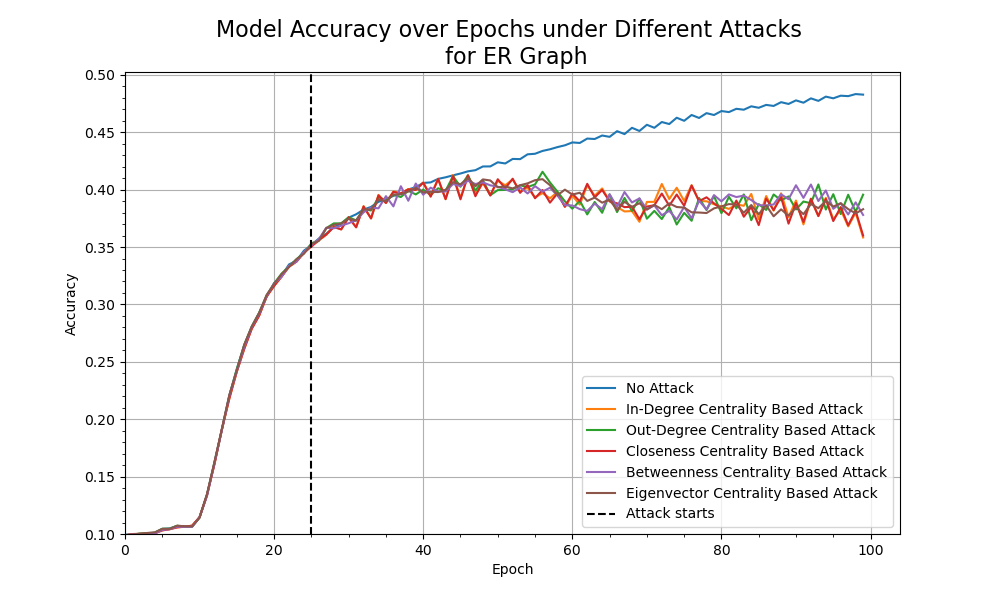
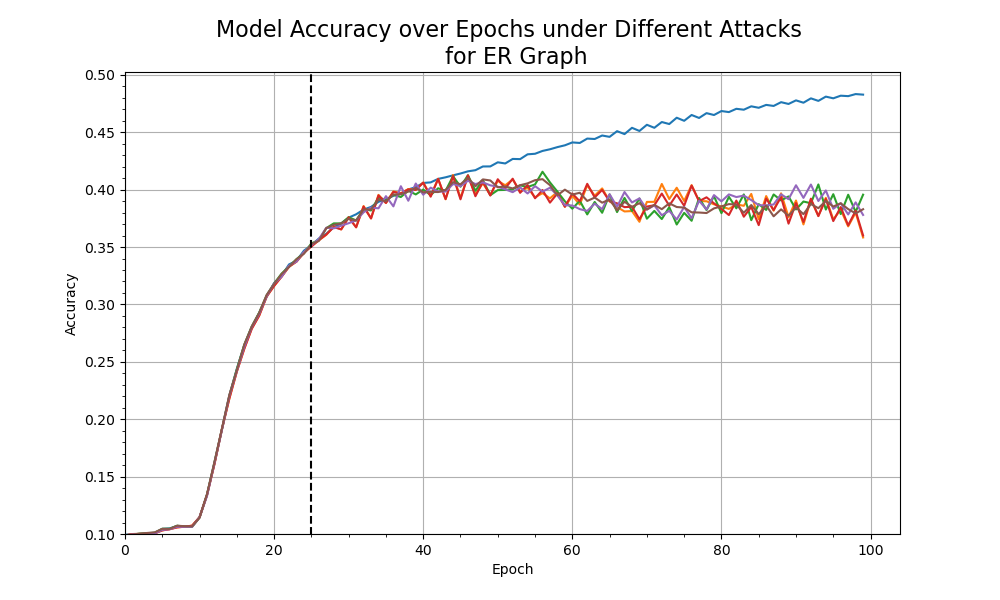
added legend separate

Changed region(s): [[0.589, 0.63, 0.899, 0.87]]

diff --git a/code/simulation_code/plot_data.py b/code/simulation_code/plot_data.py
@@ -225,7 +225,7 @@ def plot_acc_aver(graph_type_used = '', dataset_name = 'fmnist', seed_range = 50
             plt.ylim(0.1, plt.ylim()[-1])
             plt.xlim(0, plt.xlim()[-1])
             plt.vlines(x = 25, ymin = 0, ymax = plt.ylim()[1], colors = 'black', linestyles = 'dashed', label = 'Attack starts')
-            plt.legend()
+            # plt.legend()
             plt.savefig(dir_graphs + graph_type_used + '_' + acc_fname + '_iid_type_%s.png' % iid_type)
 
             # Reset values
@@ -710,6 +710,7 @@ def calc_centrality_measure_aver_variance(graph_name):
                 adj_matrix = np.loadtxt(root + fname)
                 centrality_data = calc_centralities(len(adj_matrix[0]), create_graph(adj_matrix))
                 centrality_data = np.array(list(centrality_data.values()))
+                # centrality_data = centrality_data / centrality_data.sum(axis = 0)  # normalize each column
                 for i, cent_measure in enumerate(cent_variance.keys()):
                     cent_variance[cent_measure].append(np.var(centrality_data[:, i]))
     for cent_measure in cent_variance.keys():
@@ -717,6 +718,7 @@ def calc_centrality_measure_aver_variance(graph_name):
     
     return cent_variance
 
+# TODO normalize all measures to sum to 1
 def make_variance_histograms(dataset_name):
     data_dir = '../../data/full_decentralized/%s/' % dataset_name
     result_dir = '../../data/full_decentralized/network_cent_variance_plots/'
@@ -1003,7 +1005,8 @@ if __name__ == '__main__':
     # make_variance_histograms('fmnist')
     #x = calc_centrality_measure_aver_variance('ER_graph_c_20_p_01')
     # print(x)
-    # plot_acc_aver('ER_graph_c_100_p_05', 'fmnist', 10)
+    plot_acc_aver('ER_graph_c_100_p_05', 'fmnist', 10)
     # plot_acc_aver_snap('SNAP_Cisco_c_28_type_g20', 'fmnist')
-    plot_scored_tradeoff_time_centrality('ER_graph_c_20_p_09', 'fmnist', 50)
+    # plot_scored_tradeoff_time_centrality('ER_graph_c_20_p_09', 'fmnist', 50)
+    # calc_centrality_measure_aver_variance('dir_geom_graph_c_20_type_2d_close_nodes_seed_0.txt')
 

diff --git a/code/simulation_code/test.py b/code/simulation_code/test.py
@@ -1,13 +1,30 @@
-import numpy as np
 import matplotlib.pyplot as plt
+import matplotlib.patches as mpatches
+# Define your color map
+cmap = plt.get_cmap('tab10')
 
-# Create a gradient image
-gradient = np.linspace(0, 1, 256)  # values range from 0 to 1
-gradient = np.vstack((gradient, gradient))  # stack to get a 2D image
+# Generate colors from the color map
+colors = [cmap(i) for i in range(7)]
+label_arr = ['In-Degree Centrality', 'Out-Degree Centrality', 'Closeness Centrality', 'Betweenness Centrality', 'Eigenvector Centrality']  # replace with your actual labels
 
-fig, ax = plt.subplots()
-ax.imshow(gradient, aspect='auto', cmap=plt.get_cmap('Reds'))
-plt.axis('off')
+# Create a list of patches to add to the legend
+patches = [mpatches.Patch(color=colors[0], label='No Attack'),
+           mpatches.Patch(color=colors[1], label='In-Degree Centrality Based Attack'),
+           mpatches.Patch(color=colors[2], label='Out-Degree Centrality Based Attack'),
+           mpatches.Patch(color=colors[3], label='Closeness Centrality Based Attack'),
+           mpatches.Patch(color=colors[4], label='Betweenness Centrality Based Attack'),
+           mpatches.Patch(color=colors[5], label='Eigenvector Centrality Based Attack'),
+           mpatches.Patch(color=colors[6], label='Attack Begins')]
 
-plt.savefig('gradient.png', bbox_inches='tight', pad_inches=0)
-plt.show()
+# Create a new figure for the legend
+legend_fig = plt.figure(figsize=(10, 1))  # Adjust as needed
+legend_ax = legend_fig.add_subplot(111)
+
+# Add the legend to the figure
+legend_ax.legend(handles=patches, ncol=len(patches), loc='center')
+
+# Hide the axes
+legend_ax.axis('off')
+
+# Save the figure
+legend_fig.savefig('legend.png', dpi=300, bbox_inches='tight')
